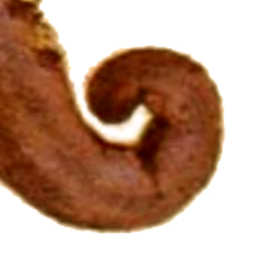
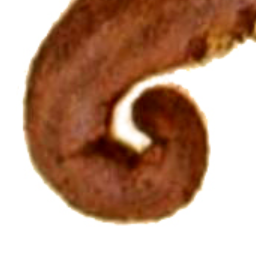
Refer to admin ui

diff --git a/templates/index.html b/templates/index.html
@@ -17,7 +17,8 @@
     an in-memory triple store.
   {% endif %}
   This is a backend service <b>without authentication</b>: all data can be modified!
-  Please use SPARQL endpoint or <a href="{{ frontend }}">frontend</a> for read access.
+  Please use SPARQL endpoint or <a href="{{ frontend }}">frontend</a> for read access
+  and consider <a href="{{ admin }}">admin user interface</a>.
 </p>
 <h2>General Endpoints</h2>
 <ul>

diff --git a/app.py b/app.py
@@ -32,6 +32,8 @@ def init(**config):
     app.config['base'] = config.get('base', os.getenv('BASE', 'http://example.org/'))
     app.config['frontend'] = config.get('frontend', os.getenv(
         'FRONTEND', app.config['base']))
+    app.config['admin'] = config.get('admin', os.getenv(
+        'ADMIN', 'https://github.com/nfdi4objects/n4o-graph-admin/'))
     app.config['sparql'] = config.get('sparql', os.getenv('SPARQL'))
     app.config['stage'] = config.get('stage', os.getenv('STAGE', 'stage'))
     app.config['data'] = config.get('data', os.getenv('DATA', 'data'))

diff --git a/README.md b/README.md
@@ -135,6 +135,7 @@ The web service and its Docker image can be configured via environment variables
 - `STAGE`: writeable stage directory. Default: `stage`
 - `DATA`: local data directory for file import
 - `FRONTEND`: URL of [n4o-graph-apis] instance. This is included as field `frontend` in [/status.json](#get-statusjson) and shown in the HTML interface for convenience. Default is the value of `BASE`
+- `ADMIN`: URL of [n4o-graph-admin] instance. Default: `https://github.com/nfdi4objects/n4o-graph-admin/`.
 
 
 ## Usage
